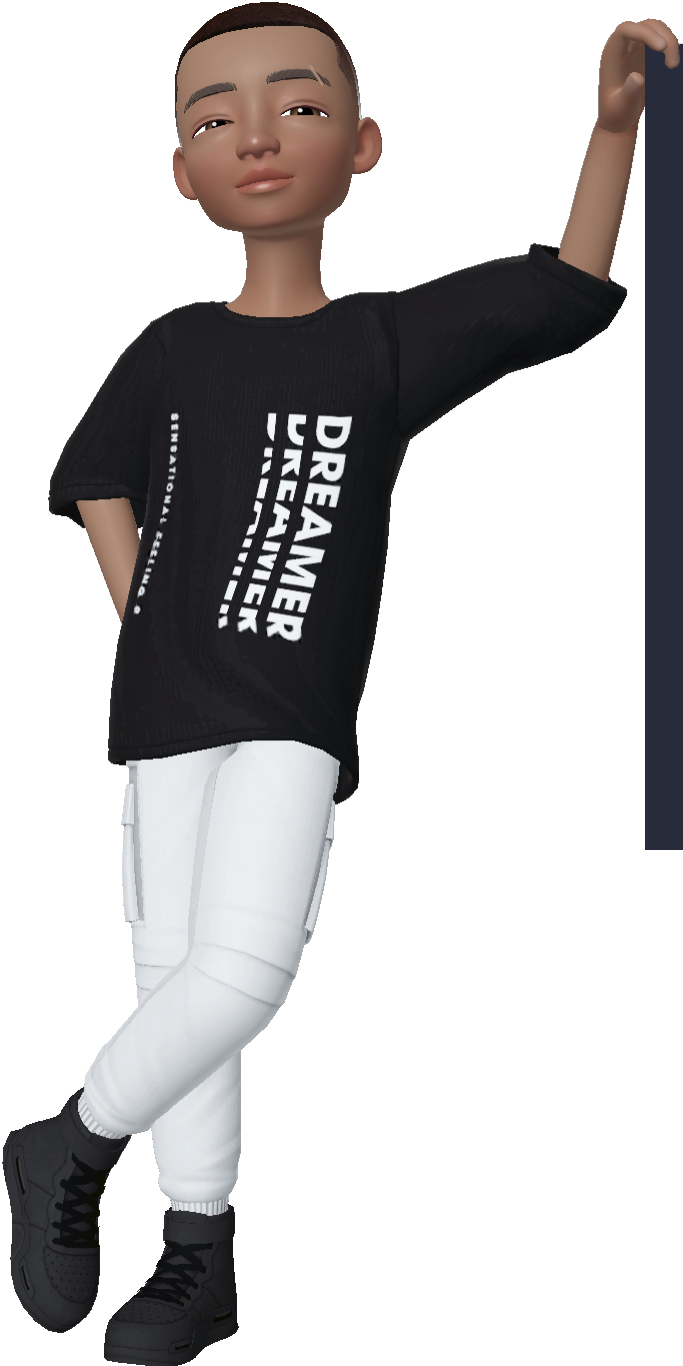
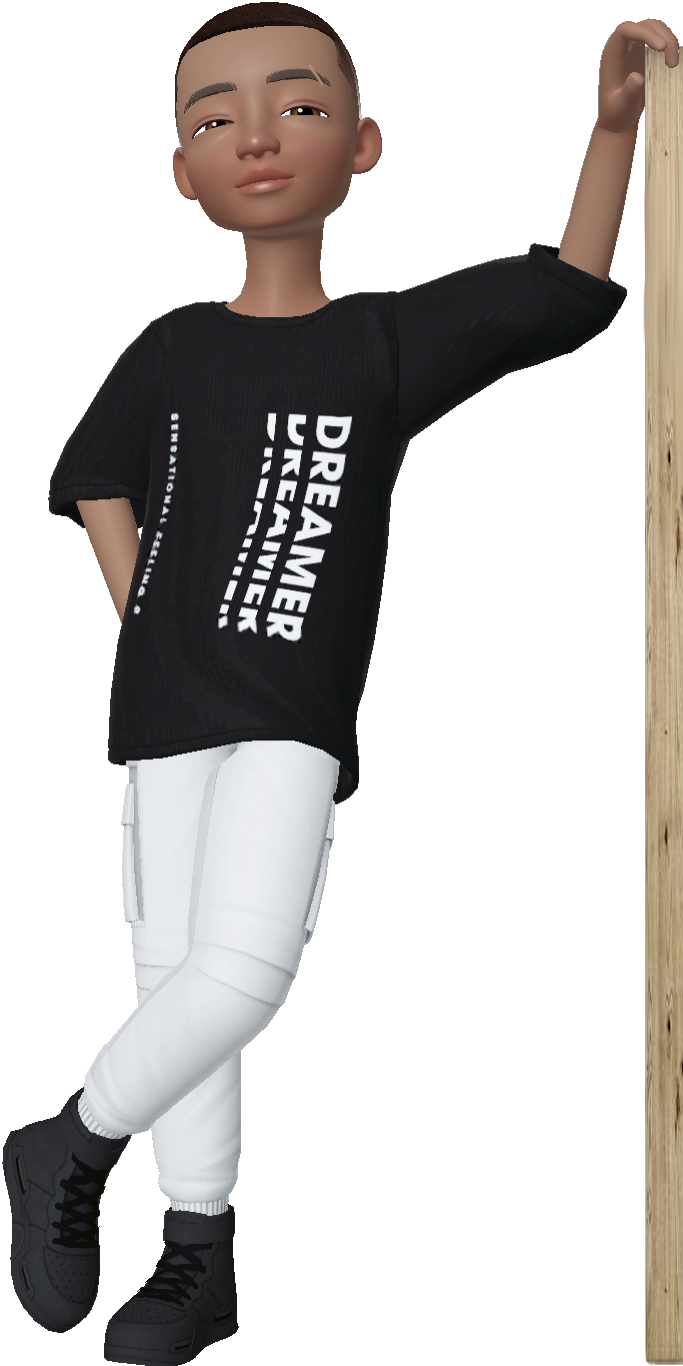
Mudança de idéia
Troca no layout, para ficar mais minimalista

Changed region(s): [[0.9224, 0.0307, 1.0, 1.0]]

diff --git a/index.html b/index.html
@@ -1,17 +1,15 @@
 <!DOCTYPE html>
-<html lang="en">
+<html lang="pt-br">
     <head>
         <meta charset="UTF-8">
         <meta name="viewport" content="width=device-width, initial-scale=1.0">
-
-        <!-- ===== CSS ===== -->
         <link rel="stylesheet" href="assets/css/styles.css">
 
-        <title>Menu responsive</title>
+        <title>YanTelles - Portifólio</title>
     </head>
     <body>
         <header class="header">
-            <a href="#" class="header__logo">Jhon Doe</a>
+            <a href="#" class="header__logo">Yan Telles</a>
 
             <ion-icon name="menu-outline" class="header__toggle" id="nav-toggle"></ion-icon>
 
@@ -42,10 +40,10 @@
                     </div>
     
                     <div class="nav__social">
-                        <a href="#" class="nav__social-icon"><ion-icon name="logo-linkedin"></ion-icon></a>
-                        <a href="#" class="nav__social-icon"><ion-icon name="logo-github"></ion-icon></a>
-                        <a href="#" class="nav__social-icon"><ion-icon name="logo-facebook"></ion-icon></a>
-                        <a href="#" class="nav__social-icon"><ion-icon name="logo-instagram"></ion-icon></a>
+                        <a href="https://www.linkedin.com/in/yan-teles-a94aa6194/" class="nav__social-icon" target="_blank"><ion-icon name="logo-linkedin"></ion-icon target="_blank"></a>
+                        <a href="https://github.com/YanTelles/" class="nav__social-icon" target="_blank"><ion-icon name="logo-github"></ion-icon target="_blank"></a>
+                        <a href="https://www.instagram.com/devossauro/" class="nav__social-icon" target="_blank"><ion-icon name="logo-instagram"></ion-icon></a>
+                        <a href="http://wa.me/5563991085178" class="nav__social-icon" target="_blank"><ion-icon name="logo-whatsapp"></ion-icon></a>
                     </div>
                 </div>
             </nav>
@@ -55,21 +53,24 @@
             <div class="div__img">
                 <img src="assets/img/Yanzito-1.png">
             </div>
-            <div class="div__infor">
-                <span>Welcome My Page</span>
-                <p>Alguma Coisa</p>
-                <p>Alguma Coisa</p>
-                <p>Alguma Coisa</p>
-                <p>Alguma Coisa</p>
-                <p>Alguma Coisa</p>
-                <p>Alguma Coisa</p>
-                <p>Alguma Coisa</p>
-                <p>Alguma Coisa</p>
-                <p>Alguma Coisa</p>
-
+            <div class="div__arrows">
+                <div class="div__arrow">
+                    <img src="assets/img/arrow-1.png">
+                </div>
+                <div class="div__arrow">
+                    <img src="assets/img/arrow-1.png">
+                </div>
             </div>
         </section>
 
+        <footer>
+            <div class="nav__social footer">
+                <a href="https://www.linkedin.com/in/yan-teles-a94aa6194/" class="nav__social-icon" target="_blank"><ion-icon name="logo-linkedin"></ion-icon target="_blank"></a>
+                <a href="https://github.com/YanTelles/" class="nav__social-icon" target="_blank"><ion-icon name="logo-github"></ion-icon target="_blank"></a>
+                <a href="https://www.instagram.com/devossauro/" class="nav__social-icon" target="_blank"><ion-icon name="logo-instagram"></ion-icon></a>
+                <a href="http://wa.me/5563991085178" class="nav__social-icon" target="_blank"><ion-icon name="logo-whatsapp"></ion-icon></a>
+            </div>
+        </footer>
 
         <script src="https://unpkg.com/ionicons@5.1.2/dist/ionicons.js"></script>
         <script src="assets/js/main.js"></script>

diff --git a/assets/css/styles.css b/assets/css/styles.css
@@ -38,8 +38,6 @@ body {
   font-family: var(--body-font);
   font-size: var(--normal-font-size);
   font-weight: 500;
-  padding-top: 90px;
-  padding: 20px;
 }
 
 ul {
@@ -100,6 +98,10 @@ img {
 
 /*===== NAV =====*/
 @media screen and (max-width: 768px) {
+  body{
+    padding-top: 30px;
+  }
+
   .nav {
     position: fixed;
     top: 0;
@@ -276,17 +278,20 @@ img {
 }
 
 @media screen and (min-width: 1024px) {
-  body{
-    padding-top: 80px;
-
-  }
   .bd-grid {
     margin-left: auto;
     margin-right: auto;
   }
+
+  .div__arrow{
+    color: var(--white-color);
+    text-align: center;
+  }
 }
 
+  /*===== Avatar =====*/
 .section__avatar{
+  
   display: -webkit-flex;
   align-items: center;
   -webkit-justify-content: center;
@@ -295,14 +300,24 @@ img {
 }
 
 .section__avatar img{
-  max-height: 45em;
+  max-height: 40em;
 }
 
-.div__infor{
-  color: var(--white-color);
-  background-color: var(--dark-color-alt);
+.div__arrow{
   text-align: center;
   position: relative;
-  padding: 2px 25px 13px 10px;
-  top: -128px;
+  top: -115px;
 }
+
+  /*===== Footer =====*/
+  footer{
+    margin-top: 5vw;
+    position: relative;
+    bottom: 0px;
+    padding: 20px;
+    background-color: var(--dark-color);
+
+  }
+  .footer{
+    text-align: center;
+  }
